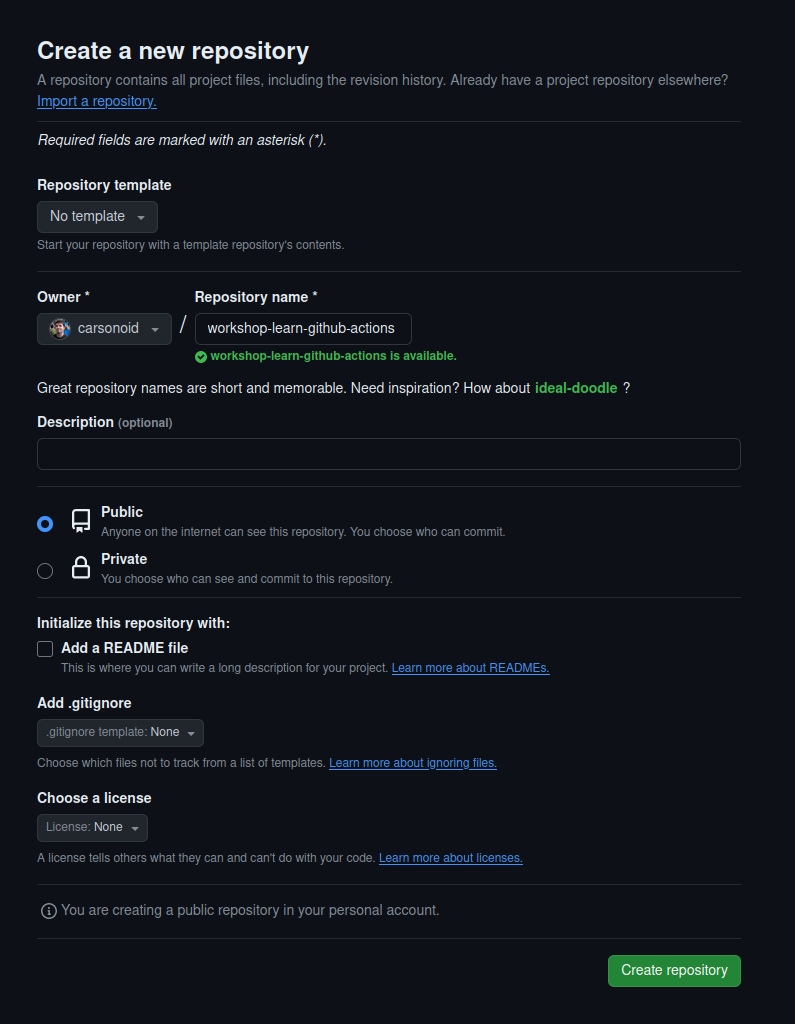
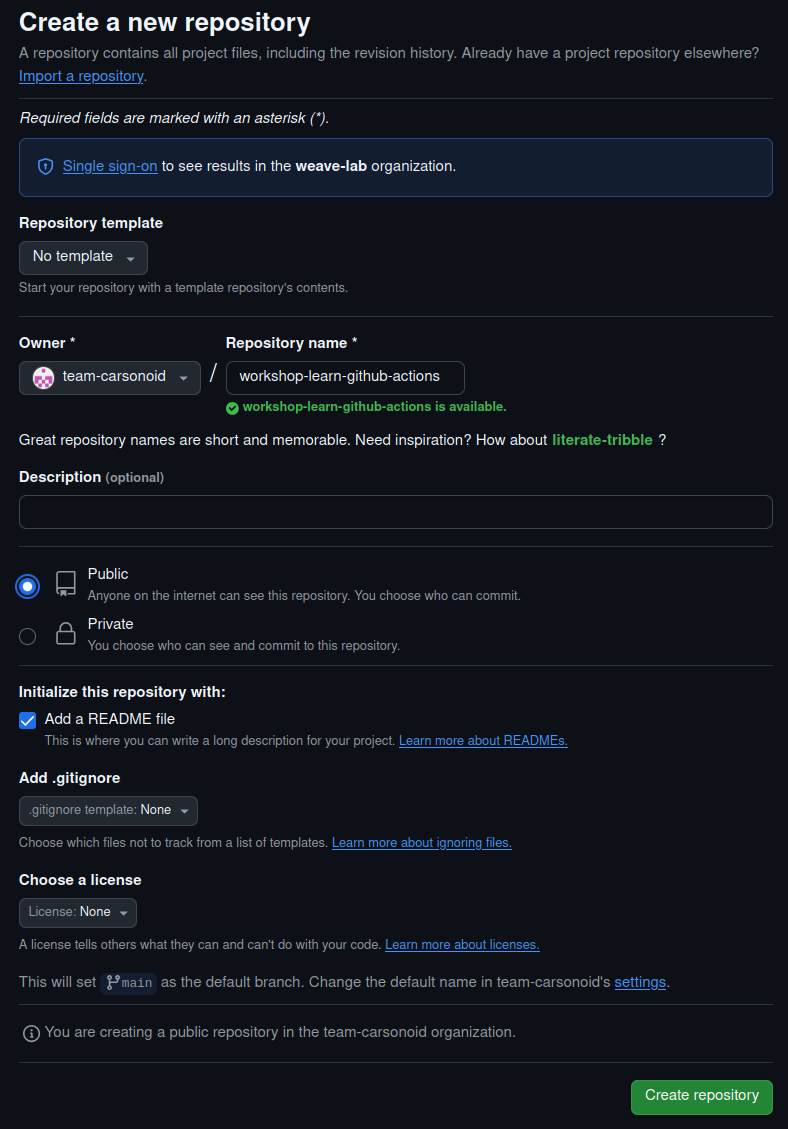
fixup-1746911267

Changed region(s): [[0.0, 0.0, 0.9746, 0.4375], [0.0, 0.4688, 0.8528, 0.9375], [0.7614, 0.9062, 1.0, 1.0]]

diff --git a/content/workshop/1-create-repo/index.md b/content/workshop/1-create-repo/index.md
@@ -27,7 +27,7 @@ We are going to make a new repository using the GitHub web interface.
 {{< hint danger >}}
 ## If you want to follow along: do not fork
 
-For the purposes of this workshop, start from a completely empty repostory. While forking is normally fine, doing so will make
+For the purposes of this workshop, start from a completely empty repository. While forking is normally fine, doing so will make
 it impossible to follow along in the workshop as it is designed.
 
 {{< /hint >}}
@@ -37,17 +37,19 @@ it impossible to follow along in the workshop as it is designed.
 ## Instructions
 {{< slide >}}
 
-Open up the [New Repository Page](https://github.com/new) and fill it out with these suggested settings:
+Open up the <a href="https://github.com/new" target="_blank">New Repository Page</a> and fill it out with these suggested settings:
 
 * Template: `No Template`
+  * This field may not exist for some users.
 * Owner: `Your GitHub User`
 * Name: `workshop-learn-github-actions`
   * This can be the same for everyone since it is namespaced under your user
 * Visibility: `Public`
-  * GitHub Actions are availabile to *both* public and private repositories, Each repository gets a number of free "minutes" of action time per month.
+  * GitHub Actions are available to *both* public and private repositories, Each repository gets a number of free "minutes" of action time per month.
   * But, we will be using GitHub Pages to serve the static assets, which will require the repository to be public.
+* Check the "Add a README file" box
 
-Everything else can be left unchecked. We will be bootstraping the contents of the repo in a later step
+Everything else can be left unchecked. We will be bootstrapping the contents of the repo in a later step
 
 ![New Repository Setup Page](create-page.png)
 
@@ -120,7 +122,7 @@ Press Ctrl+C to stop
 ## Build the site
 {{< slide last="true" nextRef="/workshop/2-introduction"  >}}
 
-Runing `hugo server` builds the site for local viewing, but it does not build production-ready assets. To do that, simply run `hugo` without any arguments.
+Running `hugo server` builds the site for local viewing, but it does not build production-ready assets. To do that, simply run `hugo` without any arguments.
 
 ```bash
 ./hugo

diff --git a/content/_index.md b/content/_index.md
@@ -3,6 +3,7 @@ title: Introduction
 ---
 
 # Learn GitHub Actions By Deploying This Workshop
+
 {{< slide first="true" >}}
 
 {{< columns-image ratio="1:3" >}}
@@ -24,6 +25,18 @@ All of the artwork in this workshop is human generated. For more information on 
 {{< /hint >}}
 
 {{</ columns-image >}}
+
+## Share this workshop
+
+The workshop is designed to be self-replicating. Encourage others to replicate it by sharing one of the urls below.
+
+```bash
+{{% ref "/" %}}
+```
+```bash
+https://tinyurl.com/actions-workshop
+```
+
 {{< /slide >}}
 
 ## Get Started

diff --git a/content/workshop/4-actions/index.md b/content/workshop/4-actions/index.md
@@ -225,8 +225,10 @@ runs:
         extended: true
 
     - name: Build
-      shell: bash
       run: |
+        # make the assets tgz users need to bootstrap the workshop
+        make workshop-assets
+
         # there is no built-in env variable for the repo name without owner, so we have to parse it out
         REPO_NAME=$(echo "${GITHUB_REPOSITORY}" | cut -d'/' -f2)
         hugo --minify -b "https://${GITHUB_REPOSITORY_OWNER}.github.io/$REPO_NAME/"

diff --git a/content/workshop/preamble/index.md b/content/workshop/preamble/index.md
@@ -105,7 +105,7 @@ much more secure and easier to serve and are required if you want to host your s
 {{< /slide >}}
 
 ## Working With `git` based CICD
-{{< slide last="true" nextRef="/workshop/1-create-repo/" >}}
+{{< slide last="true" nextRef="workshop/1-create-repo/" >}}
 
 Using yaml files and git to configure CICD comes with many, many benefits. But it can
 also be incredibly frustrating when you are going through the inevitable trial and error

diff --git a/README.md b/README.md
@@ -1,4 +1,4 @@
-# Workshop: Guts of Git
+# Workshop: Learn GitHub Actions
 
 You can develop or run this site locally using [`hugo`](https://gohugo.io/installation/)
 
